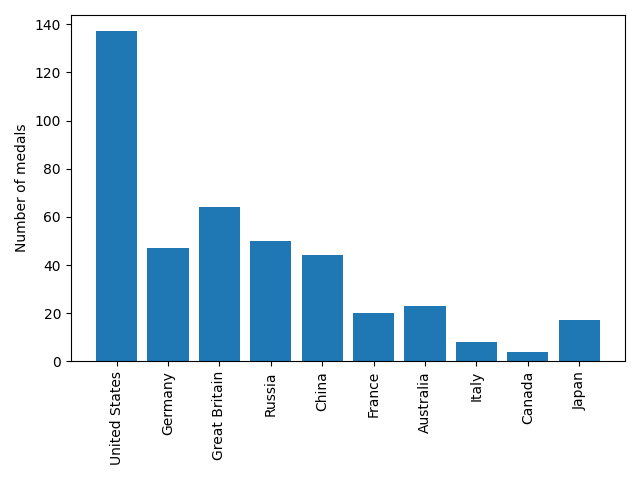
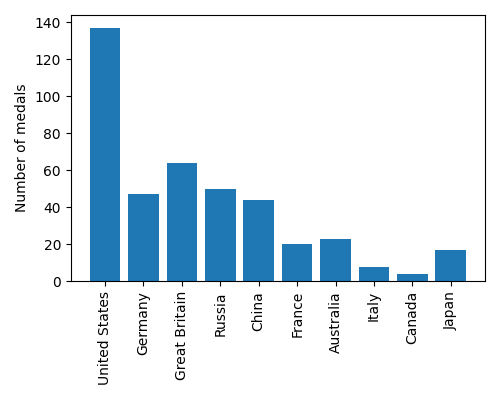
size

Changed region(s): [[0.0, 0.03, 0.99, 0.99]]

diff --git a/Introduction to Data Visualization with Matplotlib/Sharing visualizations with others/save_visualization/main.py b/Introduction to Data Visualization with Matplotlib/Sharing visualizations with others/save_visualization/main.py
@@ -10,7 +10,7 @@ ax.bar(medals.index, medals["Gold"])
 ax.set_xticklabels(medals.index, rotation=90)
 ax.set_ylabel("Number of medals")
 
-
+fig.set_size_inches([5, 4])
 
 #lfig.savefig("gold_medals.jpg", quality=50)
 
